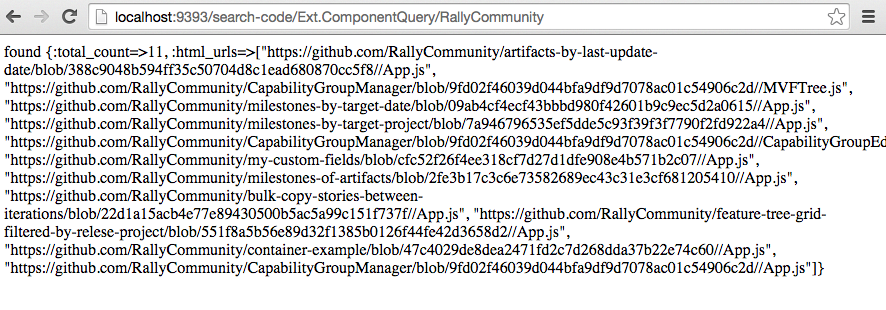
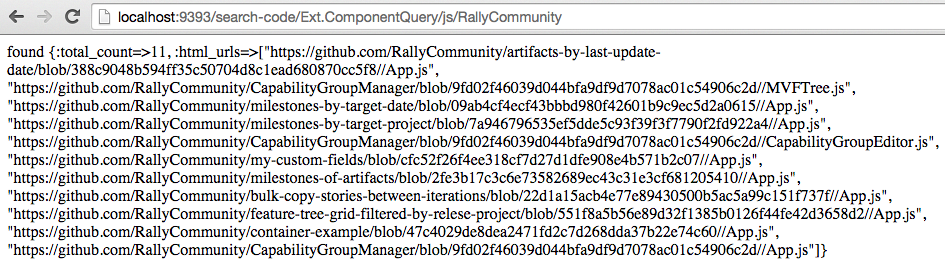
added language param

diff --git a/app.rb b/app.rb
@@ -3,15 +3,15 @@ require 'sinatra'
 get '/' do
   "search code in github repos"
 end
-get '/search-code/:words/:user' do
-  data = get_data(params[:words],params[:user])
+get '/search-code/:words/:language/:user' do
+  data = get_data(params[:words],params[:language],params[:user])
   "found #{data.inspect}"
 end
 
-def get_data(word, user)
+def get_data(word,language,user)
   data = Hash.new
   client = Octokit::Client.new :access_token => `echo $MYGHTOKEN` 
-  results = client.search_code("#{word} language:js user:#{user}")
+  results = client.search_code("#{word} language:#{language} user:#{user}")
   data[:total_count] = results.total_count
   data[:html_urls] = Array.new
   results.items.each do |x|
